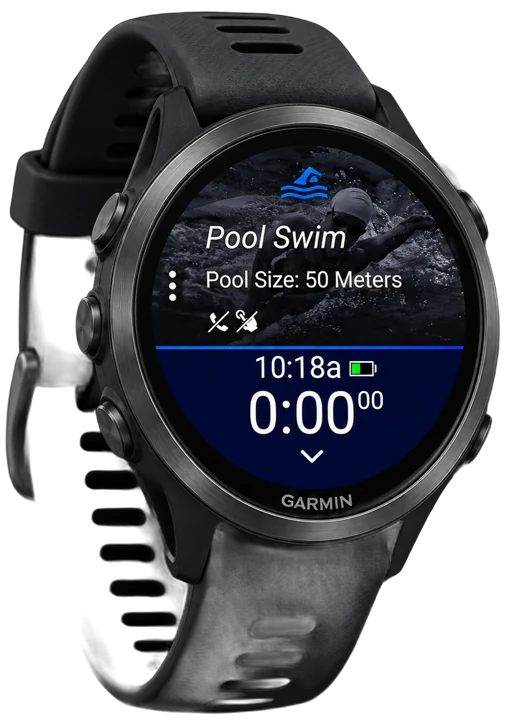
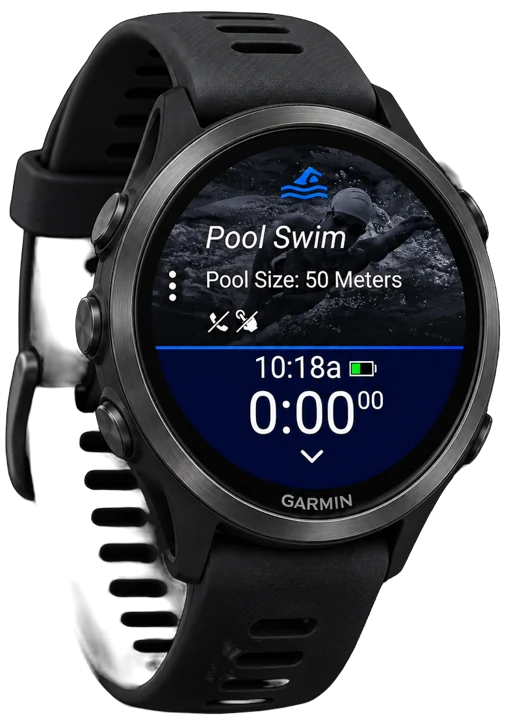
Tint behind the device, straps kept solid
The grey tint is a soft disc at the very back; the device sits in front
with a dark drop shadow only. The three Garmin cut-outs get a firmer alpha
so the lower strap no longer fades into the tint; the band, square watch
and strap cut-outs were already solid.

Claude-Session: https://claude.ai/code/session_012nSa73TQJCXMLahdjqwpcK

diff --git a/src/app/dashboard/dashboard.css b/src/app/dashboard/dashboard.css
@@ -32,8 +32,9 @@
 .hero .stat.gm { position: relative; text-align: center; }
 .hero .garmin { position: absolute; left: 50%; bottom: calc(100% + 6px); animation: hover 4s ease-in-out infinite; }
 @keyframes hover { 0%, 100% { transform: translate(-50%, 0); } 50% { transform: translate(-50%, -5px); } }
-.dev { position: relative; filter: drop-shadow(0 0 10px rgba(255,255,255,0.22)) drop-shadow(0 0 34px rgba(255,255,255,0.26)) drop-shadow(0 16px 22px rgba(0,0,0,0.55)); }
-.dev img { position: relative; display: block; width: 100%; height: 100%; }
+.dev { position: relative; }
+.dev::before { content: ""; position: absolute; inset: -6% -14%; border-radius: 50%; background: radial-gradient(closest-side, rgba(255,255,255,0.20), rgba(255,255,255,0.07) 55%, rgba(255,255,255,0)); } /* the grey tint, at the very back */
+.dev img { position: relative; display: block; width: 100%; height: 100%; filter: drop-shadow(0 10px 14px rgba(0,0,0,0.5)); } /* the device in front of it, straps included */
 .dev .dev-face { position: absolute; inset: 0; width: 100%; height: 100%; font-family: inherit; }
 .hero .stat.gm .k { display: flex; align-items: center; justify-content: center; gap: 7px; height: 21px; opacity: 0.75; }
 .hero .stat.gm .v { display: flex; justify-content: center; align-items: center; height: 34px; }
